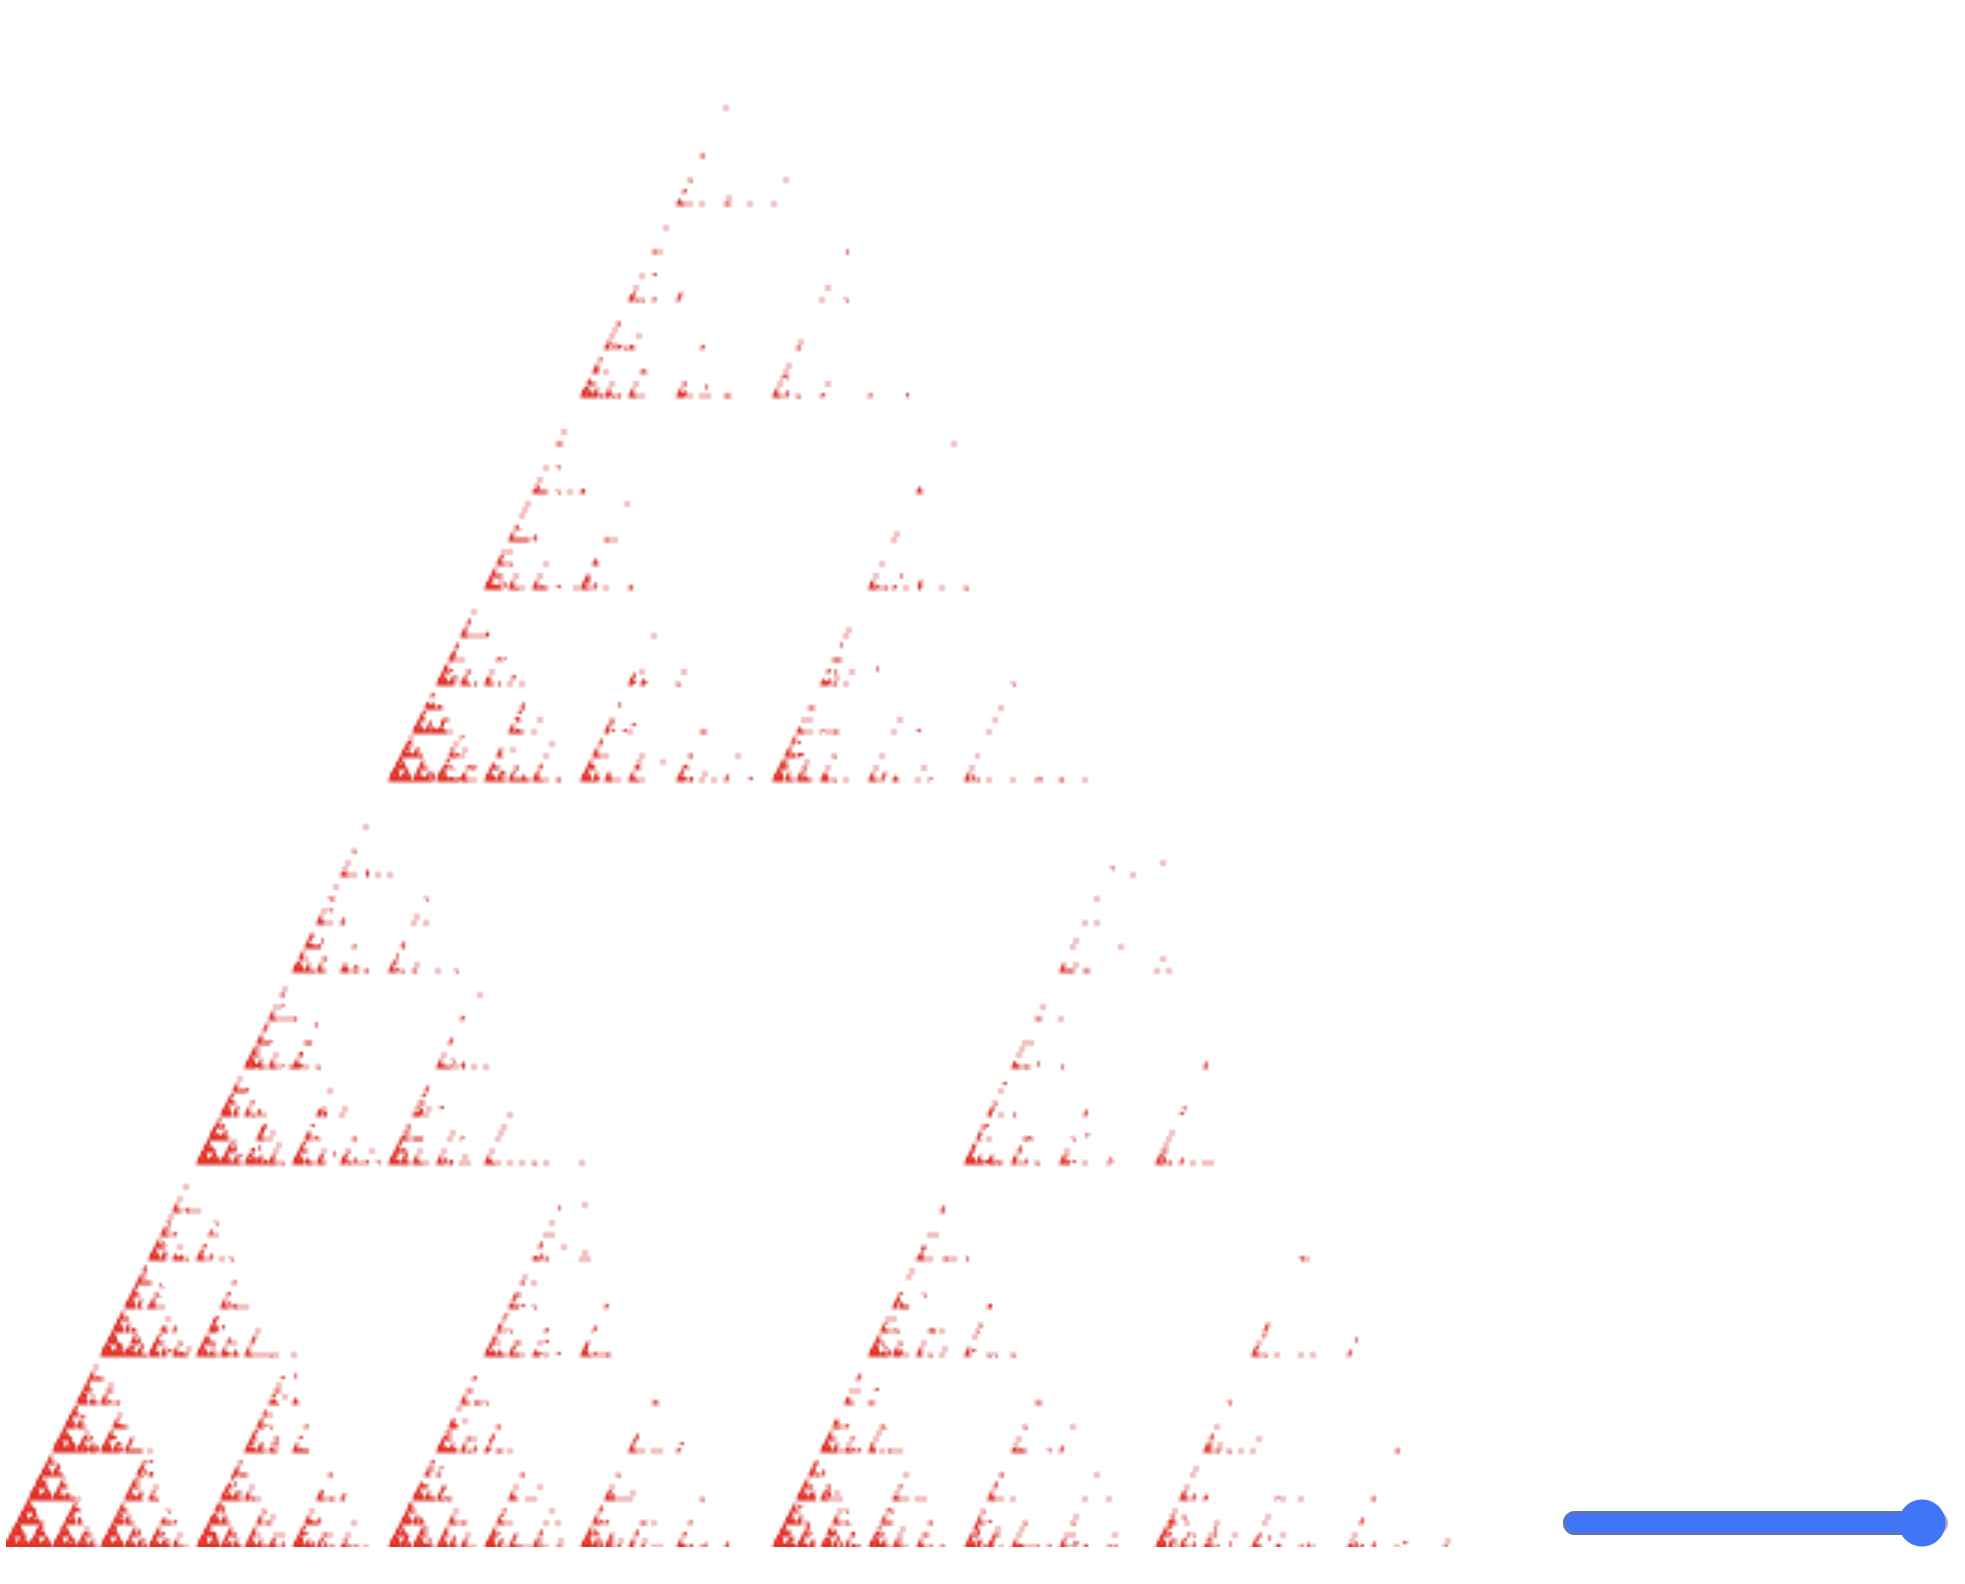
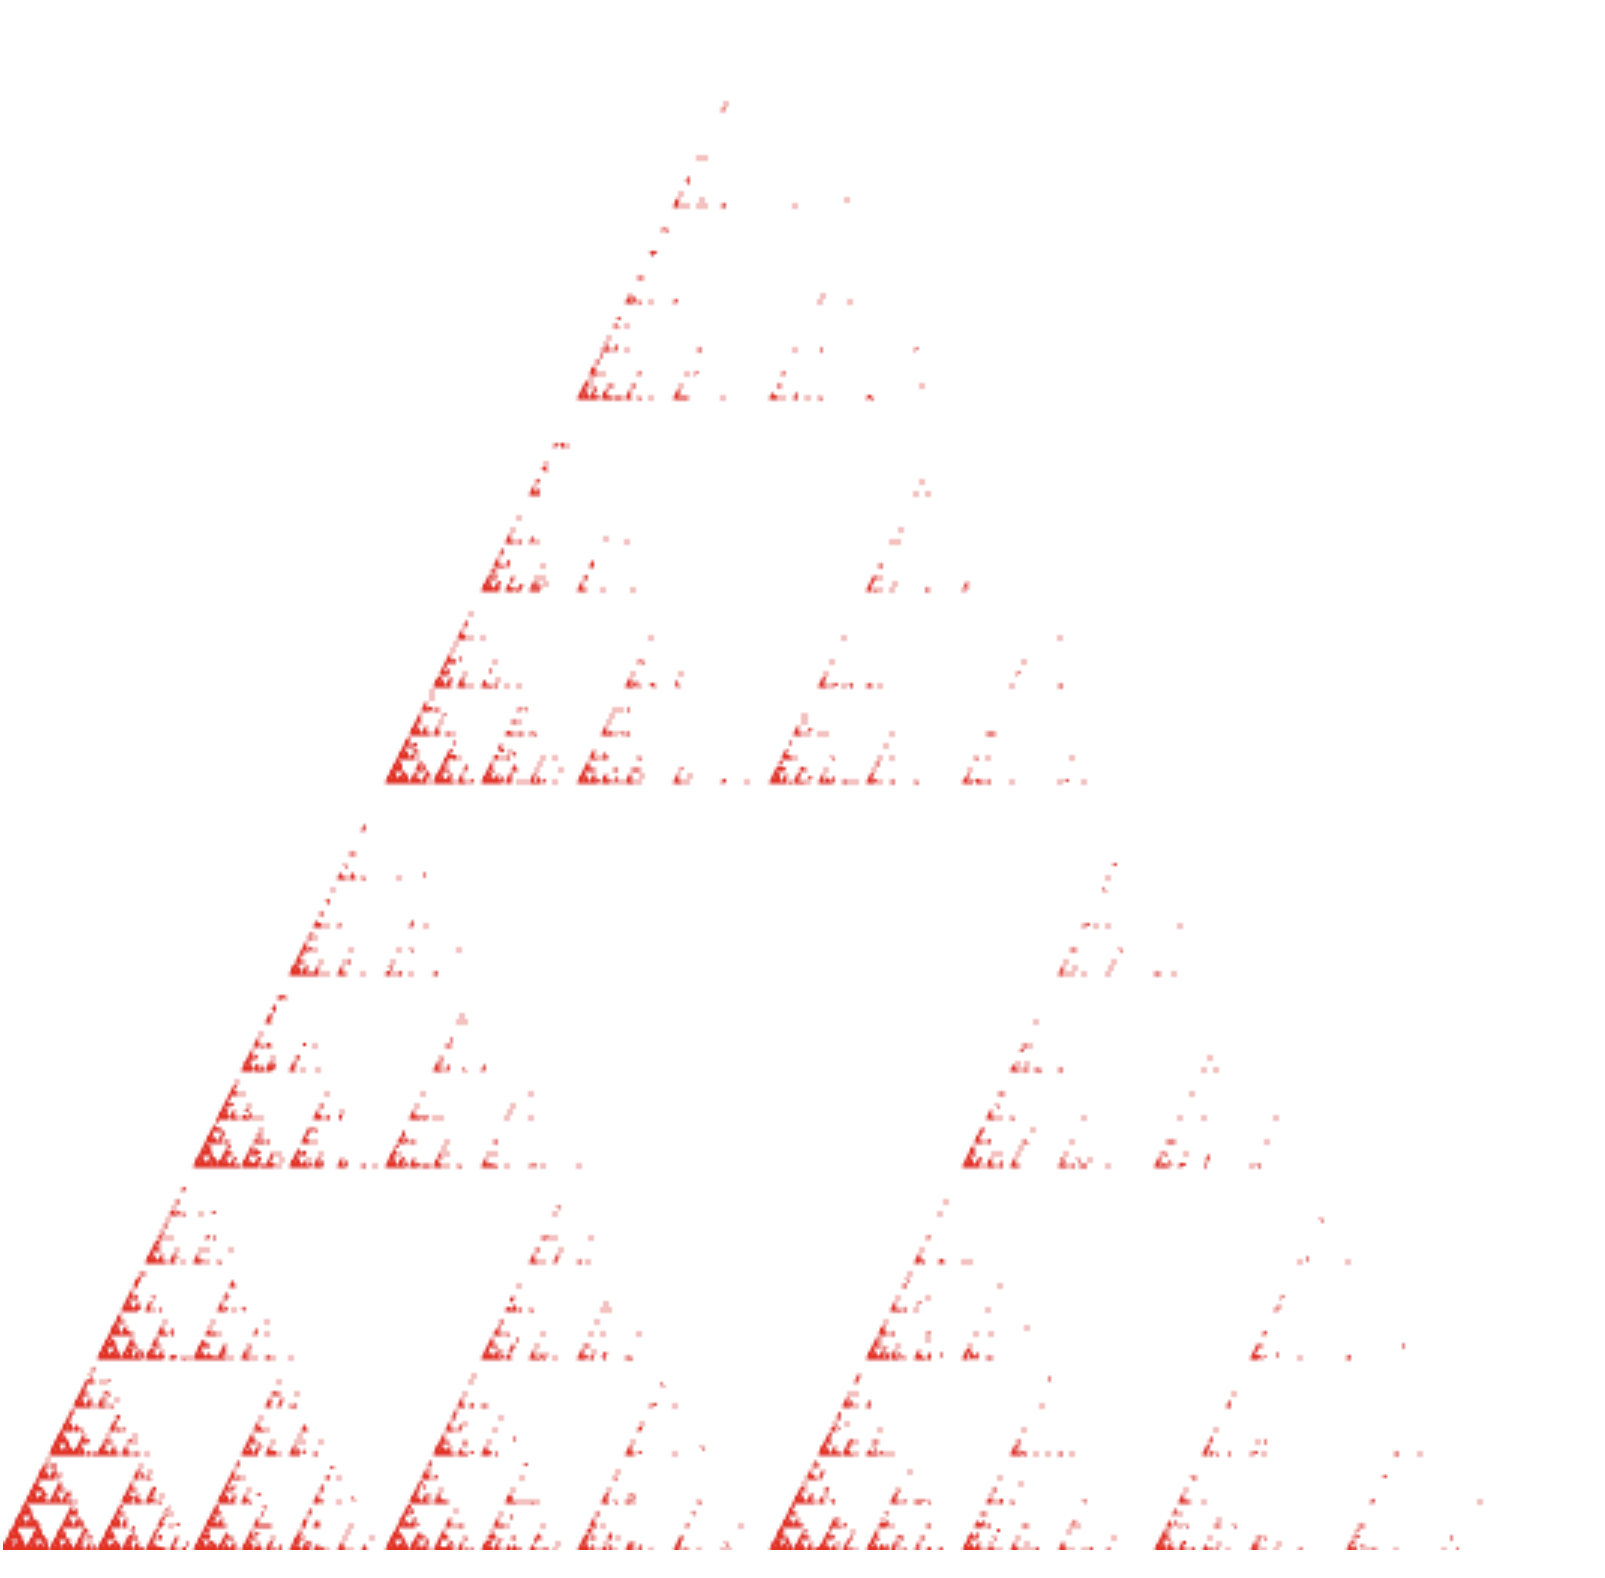
lysing á heimadaæmum

diff --git a/heimadaemi2.html b/heimadaemi2.html
@@ -21,34 +21,53 @@
 
    <div>
     <h3>Dæmi 1</h3>
-    <p>A: Í dæmi eitt A breytti ég gasket1, þ.a. fyrsti punkturinn er vel fyrir utan þríhyrninginn (100,100). Hér er mynd af efninu og hlekkurinn er <a href="2D Sierpinski Gasket.html">Hér</a> </p>
+    <p>Mynd af 1A:</p>
     <img src = "one_A.png" width="300" height="300" alt="Það er punktur á myndinni">
-    <p>B: Hér breytti ég líka kóðanum, þ.a. hér er mynd af dótinu útfrá hlekkurinn er <a href="2D Sierpinski Gasket1B.html">hérna.</a></p>
-   <img src="one_B.png" width="300" height="300" alt="Þetta fer dvínandi frá vinstri til hægri">
+    <p>A: Í dæmi eitt A breytti ég gasket1, þ.a. fyrsti punkturinn er vel fyrir utan þríhyrninginn (100,100). Hér er mynd af efninu og hlekkurinn er <a href="2D Sierpinski Gasket.html">Hér</a> </p>
+    
+    <p>Mynd af 1B:</p>
+    <img src="one_B.png" width="300" height="300" alt="Þetta fer dvínandi frá vinstri til hægri">
+    <p>B: Eins og sést á myndinni eru mun meiri líkur á að vinstri hornpunkturinn verði fyrir valinu. <a href="2D Sierpinski Gasket1B.html">Hér er 1B</a></p>
+   
    </div>
 
    <div>
     <h3>Dæmi 2</h3>
-    <p>Hér er <a href="circlefan.html">vitnunin</a> í hringinn.</p>
+    <p>Mynd af 2:</p>
     <img src="circlefan_img.png" width="300" height="300">
+    <p>Hér lærði ég að nota slider sem er gott að læra. Ég notaði CIRCLE_FAN til að tengja hnútana saman og hnútarnir eru á bilinu 3 til 50.</p>
+    <p>Hér er <a href="circlefan.html">vitnunin</a> í hringinn.</p>
+    
    </div>
 
    <div>
     <h3>Dæmi 3</h3>
-    <p>Hér er <a href="L-shape-fan.html">vitnunin</a> í L-ið. Ég breytti L-shape-fan sem notar TRIANGLE_FAN yfir í TRIANGLE-STRIP með því að nota fyrsta punktinn tvisvar. Þríhyrningarnrir voru: ABC, BCD, CDA, DAE og AEF. Síðan breytti ég einnig hámarksfjölda hnúta frá 6 yfir í 7.</p>
+    <p>Mynd af 3:</p>
     <img src="L-id-mitt.png" width="300" height="300" alt="Hér er L-ið mitt.">
+    <p>Ég breytti L-shape-fan sem notar TRIANGLE_FAN yfir í TRIANGLE-STRIP með því að nota fyrsta punktinn tvisvar. Þríhyrningarnrir voru: ABC, BCD, CDA, DAE og AEF. Síðan breytti ég einnig hámarksfjölda hnúta frá 6 yfir í 7.</p>
+    <p><a href="L-shape-fan.html"> Hér er vitnunin</a> í L-ið. </p>
+    
    </div>
 
    <div>
     <h3>Dæmi 4</h3>
-    <a href="clickpoints.html">hér er fjögur.</a>
+    <p>Mynd af 4:</p>
     <img src="clickpoints.png" width="300" height="300" alt="hér eru doppur">
+    <p>Hér lærði ég að búa til mismunandi stóra hringi með hjálp Math.random() (ég lét radíusinn vera á bilinu 0.05 til 0.15). Síðan lærði ég að búa til hringi utanum miðpunktinn. Síðan notaði ég TRIANGLE_FAN til þess að búa til hringina.</p>
+    <a href="clickpoints.html">hér er fjögur.</a>
+    
    </div>
        
    <div>
     <h3>Dæmi 5</h3>
-    <a href="2D Sierpinski teppi.html">Hér er fimm</a>
+    <p>Mynd af 5:</p>
     <img src="sierpinskicarpet.png" width="300" height="300" alt="næstum komið">
+    <p>Hér lærði ég að búa til þetta mynstur með því að nota mix fallið og að splitta ferningunum með endurkvæmni og fleiru. Auk þess notaði ég TRIANGLE_STRIP til að búa til tvo þríhyrninga sem mynda þessa ferninga.</p>
+    <a href="2D Sierpinski teppi.html">Hér er fimm</a>
+   </div>
+
+   <div>
+    <a href="index.html">Til baka á heimasíðuna</a>
    </div>
   </body>
   </html>

diff --git a/circlefan_files/circlefan.js b/circlefan_files/circlefan.js
@@ -7,9 +7,8 @@
 var canvas;
 var gl;
 
-// numCirclePoints er fjöldi punkta á hringnum
-// Heildarfjöldi punkta er tveimur meiri (miðpunktur + fyrsti punktur kemur tvisvar)
-var numCirclePoints = 20;       
+// numCirclePoints er fjöldi punkta á hringnum í upphafi
+var numCirclePoints = 3;       
 
 var radius = 0.5;
 var center = vec2(0, 0);
@@ -68,9 +67,9 @@ function createCirclePoints( cent, rad, k )
     points = [];
     points.push( center );
     
-    var dAngle = 2*Math.PI/k;
-    for( i=k; i>=0; i-- ) {
-    	a = i*dAngle;
+    var dAngle = 2*Math.PI/k; // horn í radíönum /k skiptingar
+    for(var i=k; i>=0; i-- ) {
+    	var a = i*dAngle;
     	var p = vec2( rad*Math.sin(a) + cent[0], rad*Math.cos(a) + cent[1] );
     	points.push(p);
     }

diff --git a/2D Sierpinski Gasket1B.html b/2D Sierpinski Gasket1B.html
@@ -9,8 +9,7 @@ attribute vec4 vPosition;
 
 void
 main()
-{
-	gl_PointSize = 1.0;
+{gl_PointSize = 1.0;
     gl_Position = vPosition;
 }
 </script>
@@ -35,14 +34,10 @@ main()
 <canvas id="gl-canvas" width="512" height="512">
 Oops ... your browser doesn't support the HTML5 canvas element
 </canvas>
-<input id="slider" type="range" value="5000" min="5000" max="600000" step="10000"/>
-<script >
-const slider = document.querySelector("#slider");
-slider.addEventListener("input", (e) => {
-  NumPoints = parseInt(slider.value, 10);
-  window.onload();
-})
-</script>
+<div>
+  <p>Þegar þú endurhlaðar skjáinn sérðu að valið á hnútunum breytist. </p>
+  <a href="heimadaemi2.html">til baka.</a>
+</div>
 
 
 </body></html>

diff --git a/2D Sierpinski Gasket.html b/2D Sierpinski Gasket.html
@@ -36,5 +36,9 @@ main()
 Oops ... your browser doesn't support the HTML5 canvas element
 </canvas>
 
+<div>
+    <p>Þegar þú endurhlaðar skjáinn sérðu að fyrsti punkturinn (í hvítu þríhyrningunum stundum) fer á annan stað. </p>
+    <a href="heimadaemi2.html">til baka.</a>
+  </div>
 
 </body></html>

diff --git a/2D Sierpinski Gasket1B_files/gasket1.js b/2D Sierpinski Gasket1B_files/gasket1.js
@@ -3,7 +3,7 @@
 var gl;
 var points;
 
-var NumPoints = 5000;
+var NumPoints = 590000;
 
 window.onload = function init()
 {
